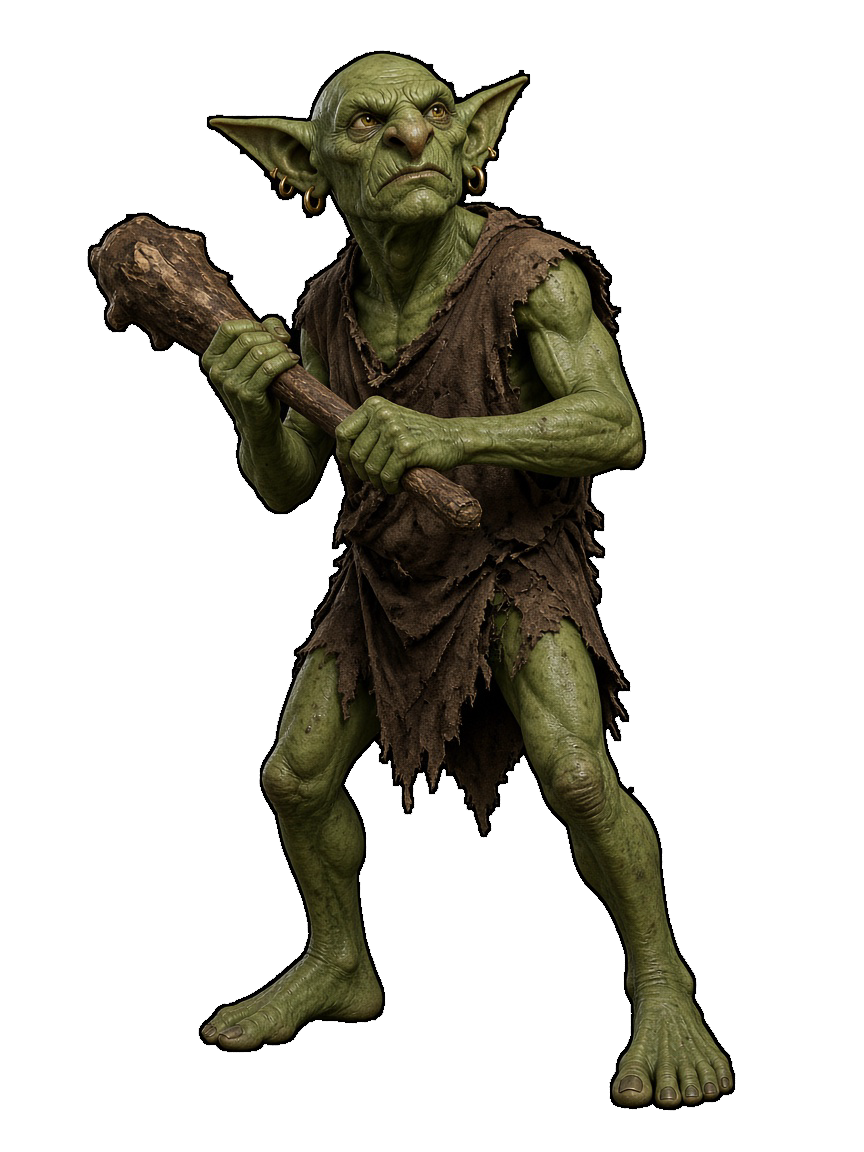
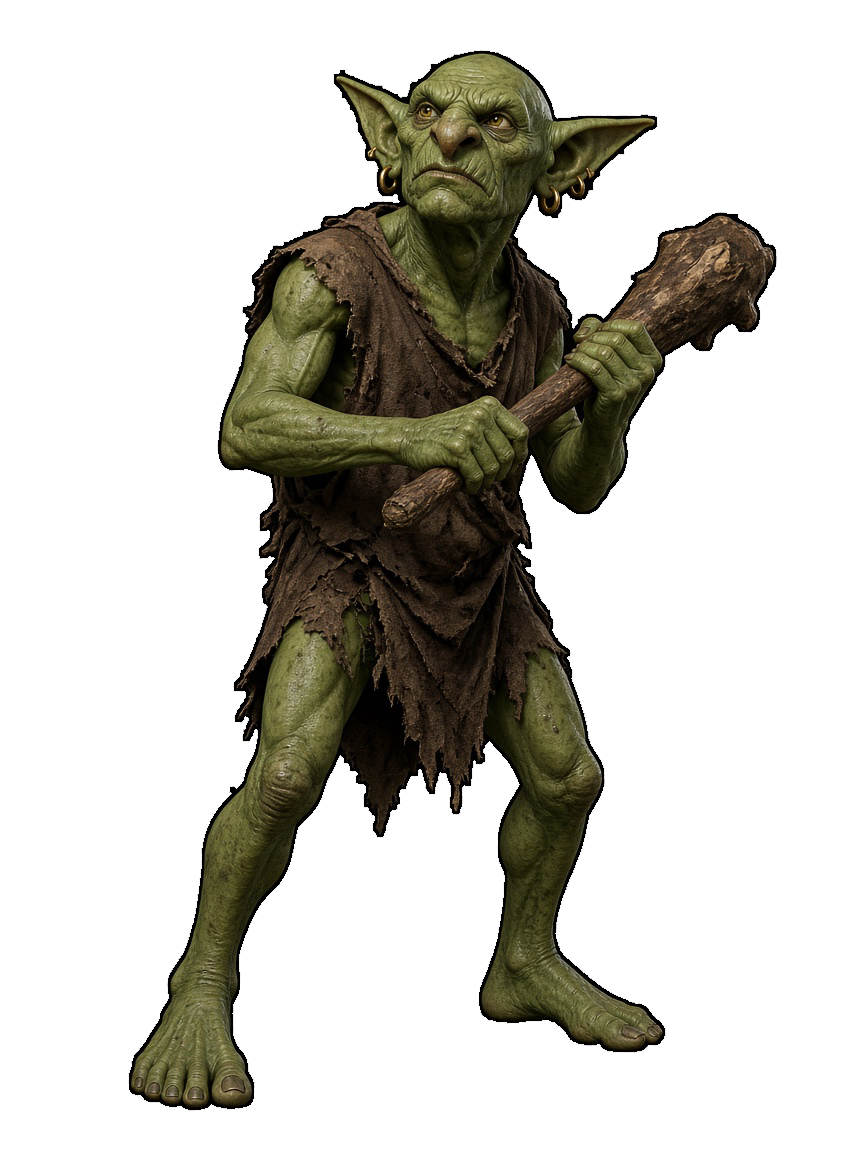
ゴブリンを画面の左向きにする。

diff --git a/index.html b/index.html
@@ -2056,30 +2056,14 @@
       grid-template-columns: minmax(0, 1fr) minmax(0, 1fr);
     }
     .album-top {
-      display: flex;
-      flex-direction: column;
+      display: grid;
+      grid-template-columns: minmax(0, 1.35fr) minmax(0, 0.95fr);
       gap: 14px;
       margin: 0 0 12px;
     }
     .album-top h3 { margin: 0 0 8px; text-align: center; font-size: 18px; letter-spacing: 0.12em; }
-    .album-top .album-backs { max-width: 420px; }
-    .album-top .album-backs .ref-grid { margin: 0; grid-template-columns: repeat(2, minmax(0, 1fr)); }
-    .style-genres {
-      display: grid;
-      grid-template-columns: repeat(5, minmax(0, 1fr));
-      gap: 8px 10px;
-      margin: 0;
-    }
-    .style-genres h4 {
-      margin: 0 0 6px;
-      text-align: center;
-      font-size: 14px;
-      letter-spacing: 0.08em;
-    }
-    .style-genres .style-col { min-width: 0; display: flex; flex-direction: column; gap: 8px; }
-    .style-genres figure { margin: 0; max-width: none; }
-    .style-genres figcaption { text-align: center; font-size: 12px; }
-    .style-genres img.style-master { width: 100%; height: auto; aspect-ratio: 3 / 4; object-fit: fill; display: block; }
+    .album-top .ref-grid,
+    .album-top .blank-grid { margin: 0; grid-template-columns: repeat(auto-fit, minmax(78px, 1fr)); }
     .album-top .card.preview { width: 100%; }
     .album-screen .panel {
       margin-left: 0;
@@ -9779,7 +9763,7 @@
       },
       {
         name: "ゴブリン",
-        image: "enemy-goblin.png?v=13",
+        image: "enemy-goblin.png?v=14",
         tier: 1,
         rank: "雑魚",
         stature: "small",
@@ -10961,7 +10945,7 @@
     // 絵の余白。見える体の高さを自分に合わせるときに使う。
     const FOE_INK = {
       "enemy-slime.png": { w: 864, h: 1152, top: 88, bottom: 64, left: 29, right: 857 },
-      "enemy-goblin.png": { w: 864, h: 1152, top: 50, bottom: 41, left: 87, right: 735 },
+      "enemy-goblin.png": { w: 864, h: 1152, top: 50, bottom: 41, left: 128, right: 776 },
       "enemy-kobold.png": { w: 864, h: 1152, top: 27, bottom: 15, left: 144, right: 704 },
       "enemy-minotaur.png": { w: 864, h: 1152, top: 50, bottom: 75, left: 67, right: 853 },
       "enemy-dragon.png": { w: 864, h: 1152, top: 120, bottom: 150, left: 27, right: 863 },
@@ -16430,7 +16414,7 @@
             <h3>敵</h3>
             <div class="ref-grid">
               ${sheetFig("enemy-slime.png?v=9", "スライム", "enemy-ref")}
-              ${sheetFig("enemy-goblin.png?v=13", "ゴブリン", "enemy-ref")}
+              ${sheetFig("enemy-goblin.png?v=14", "ゴブリン", "enemy-ref")}
               ${sheetFig("enemy-kobold.png?v=6", "コボルド", "enemy-ref")}
               ${sheetFig("enemy-troll.png?v=7", "トロール", "enemy-ref")}
               ${sheetFig("enemy-minotaur.png?v=11", "ミノタウロス", "enemy-ref")}
@@ -16512,8 +16496,8 @@
             <h3>タイトル</h3>
             ${sheetBanner("title-key.jpg?v=2", "タイトル", "左が戦士、右がモンスター軍団。")}
             <h3>カードスタイル</h3>
-            <p class="album-meta">ジャンルごとに5列。同じ形の棘</p>
-            ${cardStyleColumns("sheet")}
+            <p class="album-meta">同じ形の棘。銅・銀・金・黒と、赤・青・緑・黄・白・紺。位置は一致</p>
+            <div class="ref-grid blank-grid">${CARD_STYLE.map((item) => sheetFig(item[2], item[1], "style-master")).join("")}</div>
           </div>
           ${sheetZoomSide()}
         </div>`;
@@ -16566,9 +16550,9 @@
       const albumTop = albumTab === "未採用" ? "" : `<div class="album-top">
               <section>
                 <h3>カードスタイル</h3>
-                ${cardStyleColumns("album")}
+                <div class="ref-grid blank-grid">${cardStyleSheet()}</div>
               </section>
-              <section class="album-backs">
+              <section>
                 <h3>裏面</h3>
                 <div class="ref-grid">${albumFaceSheet()}</div>
               </section>
@@ -17006,24 +16990,6 @@
         const aria = styleLabel(item[0], item[1]);
         return `<figure class="${on ? "on" : ""}"><button type="button" class="sheet-zoom-btn" data-art-zoom="${item[0]}" aria-label="${esc(aria)}を拡大" aria-pressed="${on ? "true" : "false"}"><img class="style-master" src="${item[2]}" alt="${esc(aria)}"></button><figcaption>${esc(item[1])}</figcaption></figure>`;
       }).join("");
-    }
-    const STYLE_GENRES = [
-      ["アタック", ["style-basic-attack", "style-red-over-copper", "style-red-over-silver", "style-red-over-gold", "style-red-over-black", "style-attack-color-copper", "style-attack-color-silver", "style-attack-color-gold", "style-attack-color-black", "style-mana-red", "style-mana-white"]],
-      ["ブロック", ["style-basic-block", "style-over-copper", "style-over-silver", "style-over-gold", "style-over-black", "style-mana-blue"]],
-      ["スキル", ["style-basic-skill", "style-yellow-over-copper", "style-yellow-over-silver", "style-yellow-over-gold", "style-yellow-over-black", "style-mana-yellow"]],
-      ["アイテム", ["style-basic-item", "style-green-over-copper", "style-green-over-silver", "style-green-over-gold", "style-green-over-black", "style-mana-green"]],
-      ["敵", ["style-navy-copper", "style-navy-silver", "style-navy-gold", "style-navy-black", "style-mana-navy"]],
-    ];
-    function cardStyleColumns(mode) {
-      const byId = {};
-      CARD_STYLE.forEach((item) => { byId[item[0]] = item; });
-      return `<div class="style-genres">${STYLE_GENRES.map((group) => {
-        const items = group[1].map((id) => byId[id]).filter(Boolean);
-        const body = mode === "sheet"
-          ? items.map((item) => sheetFig(item[2], item[1], "style-master")).join("")
-          : cardStyleSheet(items);
-        return `<section class="style-col"><h4>${esc(group[0])}</h4>${body}</section>`;
-      }).join("")}</div>`;
     }
 
     function costOrbs(cost) {
